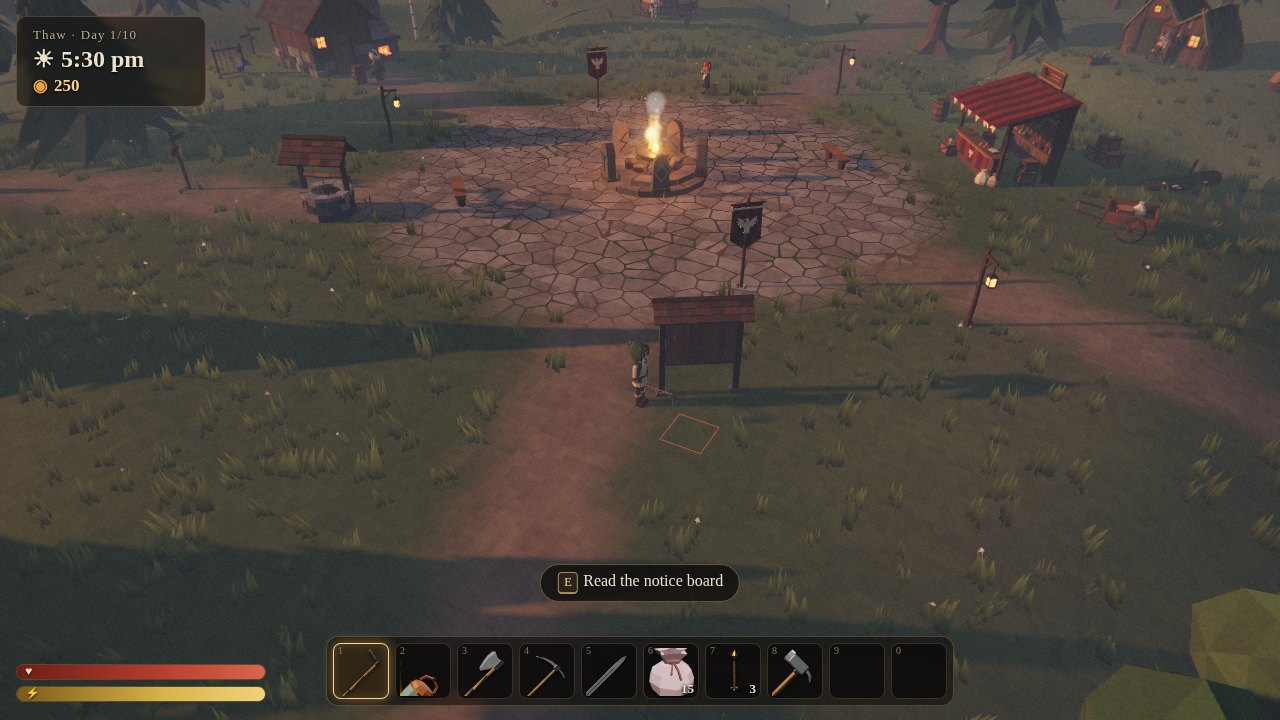
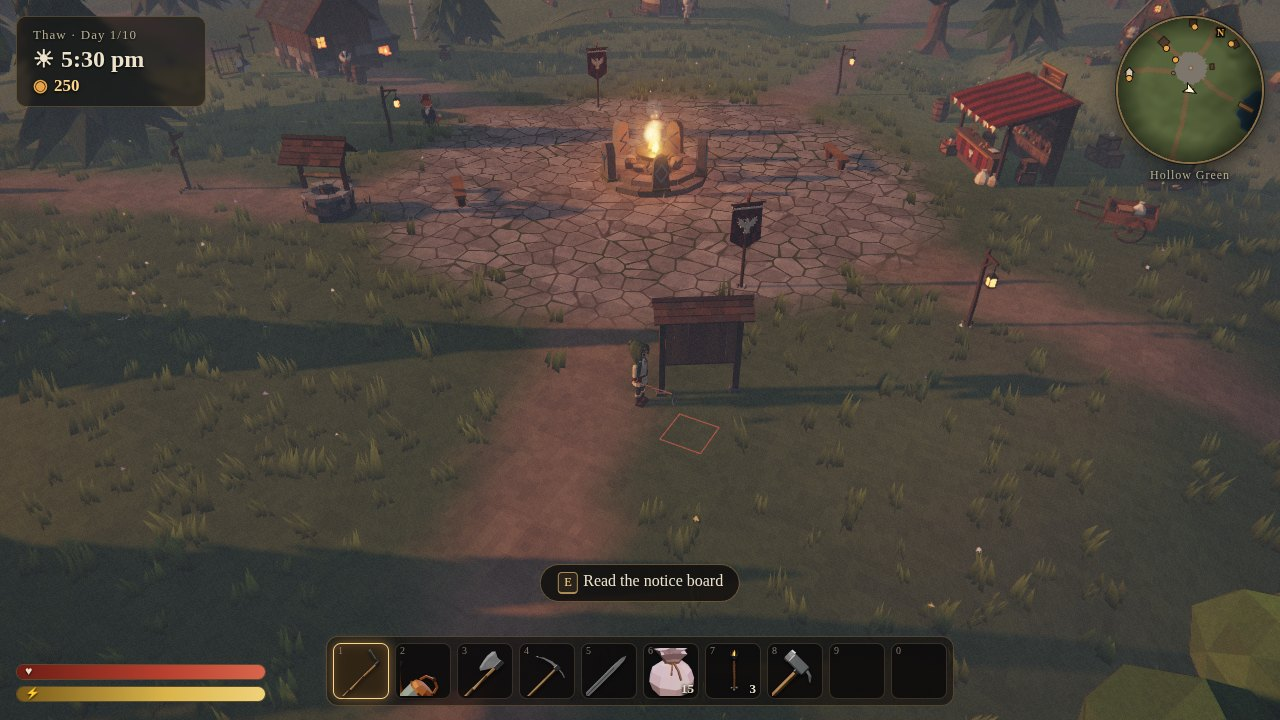
Fix the stuck night, brighten nights, and make bugs and tools findable
- End of day: the summary panel opened underneath the black fade, so
  sleeping or collapsing at 2 am left a black screen and the next day
  never began. Panels now sit above the fade. The playtest checks that
  the summary is on top and clicks "Wake up" for both sleeping and the
  2 am collapse.
- Nights are brighter but still moody: the moon rises at dusk, climbs
  faster and shines brighter, the sun and moon hand over by brightness
  (no dark gap at 20:00), night ambient and fog are a lighter moonlit
  blue, moon shadows are softer, and the belt lantern reaches further.
  Open fields at night go from about 34/255 to 48/255 average
  brightness, the village from 49 to 65.
- Bugs: 50% bigger, with a golden twinkle that shows through leaves, and
  dragonflies, lanternflies and fireflies now also appear in spring.
- Fishing rod and bug net: the journal says where Fennick and Mothwyn
  are, a pointer toast follows Corvin's introduction, and the full map
  labels villagers by name. Long toasts stay up long enough to read.
- Playtest waits for dialogue choices, since text now types at the
  speaker's pace.

Claude-Session: https://claude.ai/code/session_01AgQuKrfUSXYuM6H19NAvW9

diff --git a/gloam/src/engine/atmosphere.js b/gloam/src/engine/atmosphere.js
@@ -4,17 +4,17 @@ import { clamp, lerp, smoothstep } from './noise.js';
 
 // Key frames around the clock (colours authored in sRGB hex).
 const KEYS = [
-  { h: 0.0, zen: '#03050b', hor: '#0b111c', fog: '#0a0f17', sun: '#ff9a6a', sunI: 0.0, hemS: '#22304e', hemG: '#08090c', hemI: 0.7, exp: 1.35, cl: '#1b2233', cd: '#07090e' },
-  { h: 4.6, zen: '#04060d', hor: '#121827', fog: '#0e131c', sun: '#ff9a6a', sunI: 0.0, hemS: '#22304e', hemG: '#08090c', hemI: 0.7, exp: 1.35, cl: '#1e2536', cd: '#080a10' },
+  { h: 0.0, zen: '#04070f', hor: '#101827', fog: '#141c2a', sun: '#ff9a6a', sunI: 0.0, hemS: '#30426a', hemG: '#10131a', hemI: 0.95, exp: 1.5, cl: '#1f283b', cd: '#090c12' },
+  { h: 4.6, zen: '#050810', hor: '#151c2c', fog: '#161e2c', sun: '#ff9a6a', sunI: 0.0, hemS: '#30426a', hemG: '#10131a', hemI: 0.95, exp: 1.5, cl: '#222a3c', cd: '#0a0c12' },
   { h: 5.6, zen: '#141a2a', hor: '#4a3a44', fog: '#262a36', sun: '#ff9a6a', sunI: 0.15, hemS: '#3a4260', hemG: '#15141a', hemI: 0.65, exp: 1.25, cl: '#6a5058', cd: '#1c1a24' },
   { h: 6.6, zen: '#2d3d58', hor: '#b8785a', fog: '#5c6270', sun: '#ffb07a', sunI: 1.15, hemS: '#7888a4', hemG: '#3a3230', hemI: 0.85, exp: 1.1, cl: '#e0a080', cd: '#4a4250' },
   { h: 8.0, zen: '#3f5878', hor: '#9aa8b4', fog: '#76838f', sun: '#ffe0b8', sunI: 2.1, hemS: '#a6b6cc', hemG: '#4b4638', hemI: 1.0, exp: 1.0, cl: '#c8ccd2', cd: '#5a6068' },
   { h: 12.5, zen: '#48648a', hor: '#a4b0ba', fog: '#7f8b95', sun: '#fff0dc', sunI: 2.6, hemS: '#b0bfd2', hemG: '#524c3c', hemI: 1.1, exp: 1.0, cl: '#d4d8dc', cd: '#646a72' },
   { h: 16.0, zen: '#45597a', hor: '#b0a890', fog: '#7a8288', sun: '#ffd6a0', sunI: 2.25, hemS: '#aab4c4', hemG: '#524a38', hemI: 1.05, exp: 1.0, cl: '#d8ccb4', cd: '#625c5a' },
   { h: 18.3, zen: '#3a4766', hor: '#d08a52', fog: '#686872', sun: '#ff9a52', sunI: 1.45, hemS: '#8c8ca4', hemG: '#43362c', hemI: 0.9, exp: 1.05, cl: '#f0a870', cd: '#584650' },
-  { h: 19.4, zen: '#252d48', hor: '#8a4a4c', fog: '#383645', sun: '#ff6a3a', sunI: 0.45, hemS: '#4c4c6c', hemG: '#1e1a1c', hemI: 0.72, exp: 1.15, cl: '#b0605a', cd: '#2e2634' },
-  { h: 20.3, zen: '#111829', hor: '#2c3450', fog: '#1c2232', sun: '#ff6a3a', sunI: 0.0, hemS: '#2a3452', hemG: '#0c0c10', hemI: 0.6, exp: 1.3, cl: '#2c3246', cd: '#0e1018' },
-  { h: 21.6, zen: '#03050b', hor: '#0b111c', fog: '#0a0f17', sun: '#ff9a6a', sunI: 0.0, hemS: '#22304e', hemG: '#08090c', hemI: 0.7, exp: 1.35, cl: '#1b2233', cd: '#07090e' },
+  { h: 19.4, zen: '#252d48', hor: '#8a4a4c', fog: '#383645', sun: '#ff6a3a', sunI: 0.45, hemS: '#4c4c6c', hemG: '#1e1a1c', hemI: 0.9, exp: 1.25, cl: '#b0605a', cd: '#2e2634' },
+  { h: 20.3, zen: '#121a2c', hor: '#2e3654', fog: '#1e2638', sun: '#ff6a3a', sunI: 0.0, hemS: '#33426a', hemG: '#10121a', hemI: 1.05, exp: 1.5, cl: '#2e3448', cd: '#0f1119' },
+  { h: 21.6, zen: '#04070f', hor: '#101827', fog: '#141c2a', sun: '#ff9a6a', sunI: 0.0, hemS: '#30426a', hemG: '#10131a', hemI: 0.95, exp: 1.5, cl: '#1f283b', cd: '#090c12' },
 ];
 const COLOR_KEYS = ['zen', 'hor', 'fog', 'sun', 'hemS', 'hemG', 'cl', 'cd'];
 const NUM_KEYS = ['sunI', 'hemI', 'exp'];
@@ -82,9 +82,10 @@ export class Atmosphere {
     const az = Math.PI * dayFrac;
     const el = Math.sin(Math.PI * clamp(dayFrac, -0.3, 1.3)) * maxElev;
     s.sunDir.set(Math.cos(az) * Math.cos(el), Math.sin(el), Math.sin(az) * Math.cos(el)).normalize();
-    const nightFrac = (((hour - 20) % 24) + 24) % 24 / 10;
+    const nightFrac = (((hour - 19.2) % 24) + 24) % 24 / 10.8;
     const maz = Math.PI * nightFrac + 0.4;
-    const mel = Math.sin(Math.PI * clamp(nightFrac, -0.2, 1.2)) * THREE.MathUtils.degToRad(48);
+    const ms = Math.sin(Math.PI * clamp(nightFrac, -0.2, 1.2));
+    const mel = Math.sign(ms) * Math.pow(Math.abs(ms), 0.6) * THREE.MathUtils.degToRad(48); // climbs quickly after rising
     s.moonDir.set(Math.cos(maz) * Math.cos(mel), Math.sin(mel), Math.sin(maz) * Math.cos(mel) - 0.25).normalize();
 
     // weather greying of the sky
@@ -104,16 +105,19 @@ export class Atmosphere {
     s.moonVis = smoothstep(-0.05, 0.1, s.moonDir.y) * clamp(1.2 - W.cloud * 0.8, 0.15, 1) * nightness;
     s.aurora = season === 'winter' || dawn ? nightness * clamp(1.1 - W.cloud, 0, 1) * (season === 'winter' ? 1 : 0.5) : 0;
 
-    // directional light: sun by day, moon by night (cross-fade at the horizon)
+    // directional light: the sun or the moon, whichever is brighter (the moon
+    // rises at dusk, so there is no dark gap as the sun goes down)
     const sunUp = smoothstep(-0.02, 0.1, s.sunDir.y);
-    if (sunUp > 0.001) {
+    const sunI = k.sunI * 1.5 * W.sun * sunUp * (dawn ? 1.25 : 1);
+    const moonI = Math.max(0.3, smoothstep(0.0, 0.2, s.moonDir.y)) * clamp(1.1 - W.cloud * 0.6, 0.3, 1) * (1 - sunUp);
+    if (sunI >= moonI) {
       s.lightDir.copy(s.sunDir);
       s.lightColor.copy(k.sun);
-      s.lightIntensity = k.sunI * 1.5 * W.sun * sunUp * (dawn ? 1.25 : 1);
+      s.lightIntensity = sunI;
     } else {
       s.lightDir.copy(s.moonDir.y > 0.05 ? s.moonDir : tmpA.set(0.3, 0.8, 0.2));
       s.lightColor.set('#8fa6d6');
-      s.lightIntensity = 0.6 * smoothstep(0.0, 0.2, s.moonDir.y) * clamp(1.1 - W.cloud * 0.6, 0.3, 1);
+      s.lightIntensity = moonI;
     }
     if (s.lightDir.y < 0.08) s.lightDir.y = 0.08;
     s.lightDir.normalize();
@@ -123,7 +127,7 @@ export class Atmosphere {
     s.hemiIntensity = k.hemI * 1.45 * lerp(1, W.dark, 0.5) * (weather === 'snow' ? 1.2 : 1);
 
     // fog
-    s.fogColor.copy(k.fog).lerp(grey, g * 0.3).multiplyScalar(lerp(1, W.dark, 0.5) * 0.42);
+    s.fogColor.copy(k.fog).lerp(grey, g * 0.3).multiplyScalar(lerp(1, W.dark, 0.5) * lerp(0.42, 0.62, nightness)); // moonlit mist, not murk
     if (weather === 'snow') s.fogColor.lerp(tmpA.set(0.55, 0.6, 0.68), 0.35 * (1 - nightness * 0.8));
     s.fogSunColor.copy(k.sun).multiplyScalar(0.22 * s.sunVis * Math.min(1, k.sunI));
     const morningMist = smoothstep(5, 6.5, hour) * (1 - smoothstep(7.5, 10, hour));
@@ -137,7 +141,7 @@ export class Atmosphere {
     // grading
     s.exposure = k.exp * 1.5 * (weather === 'storm' ? 1.1 : 1);
     const golden = smoothstep(17, 18.5, hour) * (1 - smoothstep(19.2, 20, hour)) + smoothstep(5.8, 6.6, hour) * (1 - smoothstep(7, 8.5, hour));
-    s.lift.set(lerp(0.012, 0.004, nightness), lerp(0.014, 0.012, nightness), lerp(0.022, 0.04, nightness));
+    s.lift.set(lerp(0.012, 0.008, nightness), lerp(0.014, 0.016, nightness), lerp(0.022, 0.046, nightness));
     s.gain.set(lerp(1.02, 0.86, nightness) + golden * 0.06, lerp(1.0, 0.94, nightness), lerp(0.96, 1.12, nightness) - golden * 0.05);
     s.gamma.set(1, 1, 1);
     s.saturation = lerp(0.9, 0.72, nightness) * (weather === 'fog' ? 0.85 : 1) * (dawn ? 1.08 : 1);

diff --git a/gloam/src/game/bugs.js b/gloam/src/game/bugs.js
@@ -13,6 +13,7 @@ export class Bugs {
     this.group = new THREE.Group();
     game.engine.scene.add(this.group);
     this.scale = new Map();
+    this.glintTex = makeGlintTexture();
   }
 
   eligible() {
@@ -92,7 +93,7 @@ export class Bugs {
   modelScale(id) {
     if (this.scale.has(id)) return this.scale.get(id);
     const b = this.game.lib.getBounds(id).getSize(new THREE.Vector3());
-    const k = 0.2 / Math.max(0.03, b.x, b.y, b.z);
+    const k = 0.3 / Math.max(0.03, b.x, b.y, b.z);
     this.scale.set(id, k);
     return k;
   }
@@ -107,7 +108,14 @@ export class Bugs {
     obj.scale.setScalar(this.modelScale(id));
     obj.traverse((o) => { if (o.isMesh) o.castShadow = false; });
     this.group.add(obj);
-    const b = { id, B: BUGS[id], obj, anchor: new THREE.Vector3(loc.x, loc.y, loc.z), pos: new THREE.Vector3(loc.x, loc.y, loc.z), r: loc.r, t: Math.random() * 10, fleeing: false, face: loc.face, ground: loc.ground, dartT: 0, dartTo: null };
+    // a soft twinkle so bugs can be spotted from the camera
+    const glint = new THREE.Sprite(new THREE.SpriteMaterial({
+      map: this.glintTex, color: 0xffffff, transparent: true, opacity: 0, depthWrite: false,
+      depthTest: false, // shines through the leaves over a trunk beetle
+    }));
+    glint.renderOrder = 2;
+    this.group.add(glint);
+    const b = { id, B: BUGS[id], obj, glint, anchor: new THREE.Vector3(loc.x, loc.y, loc.z), pos: new THREE.Vector3(loc.x, loc.y, loc.z), r: loc.r, t: Math.random() * 10, fleeing: false, face: loc.face, ground: loc.ground, dartT: 0, dartTo: null };
     this.list.push(b);
   }
 
@@ -147,6 +155,7 @@ export class Bugs {
 
   remove(b) {
     b.obj.removeFromParent();
+    if (b.glint) { b.glint.removeFromParent(); b.glint.material.dispose(); }
     const i = this.list.indexOf(b);
     if (i >= 0) this.list.splice(i, 1);
   }
@@ -196,8 +205,42 @@ export class Bugs {
         }
       }
       b.obj.position.copy(b.pos);
+      if (b.glint) {
+        const pulse = 0.5 + 0.5 * Math.sin(b.t * 2.6 + i * 1.7);
+        // a little toward the camera so a tree trunk doesn't hide it
+        const cam = g.engine.camera.position;
+        const d = Math.max(0.001, cam.distanceTo(b.pos));
+        b.glint.position.set(b.pos.x + (cam.x - b.pos.x) / d * 0.3, b.pos.y + 0.1 + (cam.y - b.pos.y) / d * 0.3, b.pos.z + (cam.z - b.pos.z) / d * 0.3);
+        b.glint.scale.setScalar(0.55 + pulse * 0.35);
+        b.glint.material.opacity = b.fleeing ? Math.max(0, 0.8 - b.fleeT) : 0.35 + 0.6 * pulse * pulse;
+      }
       if (b.face != null && b.B.move === 'crawl') b.obj.rotation.set(0, b.face, 0);
       else b.obj.rotation.set(Math.sin(b.t * 20) * 0.15, b.t * 1.5 + i, Math.sin(b.t * 17) * 0.2);
     }
   }
+}
+
+// A small four-point sparkle with a warm halo.
+function makeGlintTexture() {
+  const S = 64;
+  const c = document.createElement('canvas');
+  c.width = c.height = S;
+  const x = c.getContext('2d');
+  const g = x.createRadialGradient(S / 2, S / 2, 0, S / 2, S / 2, S / 2);
+  g.addColorStop(0, 'rgba(255, 255, 240, 1)');
+  g.addColorStop(0.14, 'rgba(255, 226, 140, 0.9)');
+  g.addColorStop(0.4, 'rgba(255, 196, 90, 0.28)');
+  g.addColorStop(1, 'rgba(255, 180, 70, 0)');
+  x.fillStyle = g;
+  x.fillRect(0, 0, S, S);
+  // four-point star, tapering to the tips
+  x.fillStyle = 'rgba(255, 252, 230, 0.95)';
+  for (const r of [0, Math.PI / 2]) {
+    x.save(); x.translate(S / 2, S / 2); x.rotate(r);
+    x.beginPath(); x.moveTo(-S * 0.46, 0); x.lineTo(0, -2.2); x.lineTo(S * 0.46, 0); x.lineTo(0, 2.2); x.closePath(); x.fill();
+    x.restore();
+  }
+  const tex = new THREE.CanvasTexture(c);
+  tex.colorSpace = THREE.SRGBColorSpace;
+  return tex;
 }

diff --git a/gloam/src/ui/panels.js b/gloam/src/ui/panels.js
@@ -490,6 +490,8 @@ export function goals(g) {
   const met = Object.values(st.npcs).filter((n) => n.met).length;
   const out = [];
   out.push({ t: 'Speak with Corvin the raven', done: st.npcs.corvin.met });
+  out.push({ t: 'Get a fishing rod from Fennick the fox (the south dock in the morning, the beach by day, the Hearth after 5 pm)', done: st.npcs.fennick.met });
+  out.push({ t: 'Get a bug net from Mothwyn the moth (Birchmeadow in the morning, her house in the village after noon)', done: st.npcs.mothwyn.met });
   out.push({ t: 'Till soil in your field and plant seeds', done: Object.values(st.farm).some((t) => t.crop) || st.stats.crops > 0 });
   out.push({ t: 'Ship something in the tithe crate', done: st.stats.earned > 0 });
   out.push({ t: `Meet the villagers (${met}/6)`, done: met >= 6 });
@@ -589,10 +591,16 @@ function mapPanel(ui, g) {
     c.beginPath(); c.moveTo(hx, hy - 7); c.lineTo(hx + 6, hy - 1); c.lineTo(hx + 4.5, hy - 1); c.lineTo(hx + 4.5, hy + 6);
     c.lineTo(hx - 4.5, hy + 6); c.lineTo(hx - 4.5, hy - 1); c.lineTo(hx - 6, hy - 1); c.closePath();
     c.fill(); c.lineWidth = 1.2; c.strokeStyle = 'rgba(12,8,4,0.9)'; c.stroke();
+    c.font = '11px Alegreya, Georgia, serif';
+    c.textAlign = 'left';
     for (const n of g.npcs.list) {
       if (!n.visible) continue;
       const [x, y] = toPx(n.pos.x, n.pos.z);
       dot(x, y, 3.5, '#e6a44a');
+      c.fillStyle = 'rgba(10,10,10,0.7)';
+      c.fillText(n.cfg.name, x + 6, y + 4);
+      c.fillStyle = '#f3c77e';
+      c.fillText(n.cfg.name, x + 5, y + 3);
     }
     for (const e of g.enemies.list) {
       if (!e.alive) continue;
@@ -611,7 +619,7 @@ function mapPanel(ui, g) {
   };
   draw();
   const iv = setInterval(draw, 500);
-  f.body.appendChild(h('div', 'muted small', 'The arrow is you and the house is home. Amber dots are villagers; red ones are the Gloam.'));
+  f.body.appendChild(h('div', 'muted small', 'The arrow is you and the house is home. Amber dots are villagers (Fennick has a fishing rod for you, Mothwyn a bug net); red ones are the Gloam.'));
   return { name: 'map', el: f.el, onClose: () => clearInterval(iv) };
 }
 
@@ -649,7 +657,7 @@ function helpPanel(ui) {
     <div><h3>Living here</h3>
       <p>Till your field with the hoe, plant seeds, water them each day (or let the rain). Crops only grow in their season.</p>
       <p>Drop goods in the <b>tithe crate</b> by your hut; they're sold overnight. Pay Corvin back at his stall.</p>
-      <p>Chop trees, break rocks, forage, fish (${fishHow}), and catch bugs with the net.</p>
+      <p>Chop trees, break rocks, forage, fish (${fishHow}), and catch bugs with the net. Bugs twinkle gold: on tree trunks and over water by day, around lights and in the fields at night. Fennick the fox has a spare rod and Mothwyn the moth makes nets.</p>
       <p>After dark the <b>Gloam</b> hunts. Stay near fire — torches, braziers and the Great Hearth keep them away. Standing by a fire makes you <b>Rested</b>.</p>
       <p>Sleep at your hut door before 2 am. Your game saves each morning.</p>
     </div>

diff --git a/gloam/src/data/items.js b/gloam/src/data/items.js
@@ -69,11 +69,11 @@ for (const [id, f] of Object.entries(FISH)) def(id, f.name, 'fish', f.price, { m
 export const BUGS = {
   bug_moth: { name: 'Ash Moth', hours: [19, 4], seasons: ['spring', 'summer', 'autumn'], where: 'lights', price: 22, rarity: 10, move: 'flutter' },
   bug_deathshead: { name: "Death's-head Moth", hours: [21, 3], seasons: ['autumn'], where: 'lights', price: 150, rarity: 2, move: 'flutter' },
-  bug_firefly: { name: 'Gloam Firefly', hours: [20, 2], seasons: ['summer'], where: 'meadow', price: 45, rarity: 8, move: 'glow' },
+  bug_firefly: { name: 'Gloam Firefly', hours: [20, 2], seasons: ['spring', 'summer'], where: 'meadow', price: 45, rarity: 8, move: 'glow' },
   bug_beetle: { name: 'Bark Beetle', hours: [8, 17], seasons: ['spring', 'summer', 'autumn'], where: 'trees', price: 26, rarity: 9, move: 'crawl' },
   bug_grave_beetle: { name: 'Grave Beetle', hours: [19, 5], seasons: ['spring', 'summer', 'autumn', 'winter'], where: 'graveyard', price: 85, rarity: 4, move: 'crawl' },
-  bug_dragonfly: { name: 'Fen Dragonfly', hours: [9, 17], seasons: ['summer'], where: 'water', price: 38, rarity: 8, move: 'dart' },
-  bug_lanternfly: { name: 'Lanternfly', hours: [17, 21], seasons: ['summer', 'autumn'], where: 'forest', price: 64, rarity: 5, move: 'flutter' },
+  bug_dragonfly: { name: 'Fen Dragonfly', hours: [9, 17], seasons: ['spring', 'summer'], where: 'water', price: 38, rarity: 8, move: 'dart' },
+  bug_lanternfly: { name: 'Lanternfly', hours: [17, 21], seasons: ['spring', 'summer', 'autumn'], where: 'forest', price: 64, rarity: 5, move: 'flutter' },
   bug_mistmoth: { name: 'Mist Moth', hours: [20, 5], seasons: ['autumn', 'winter'], where: 'mistwood', price: 125, rarity: 3, move: 'flutter', fogBonus: true },
 };
 for (const [id, b] of Object.entries(BUGS)) def(id, b.name, 'bug', b.price, { model: id });

diff --git a/gloam/src/game/game.js b/gloam/src/game/game.js
@@ -88,7 +88,7 @@ export class Game {
     this.lastMusic = null;
     this.prompt = null;
     // a small belt lantern so the night is playable (it does not ward off the Gloam)
-    this.playerLight = engine.lighting.add({ pos: this.player.pos, color: 0xffb870, intensity: 3.2, radius: 7, flicker: 0.25, halo: 0.2, nightOnly: true, safe: 0 });
+    this.playerLight = engine.lighting.add({ pos: this.player.pos, color: 0xffb870, intensity: 4, radius: 9, flicker: 0.25, halo: 0.2, nightOnly: true, safe: 0 });
   }
 
   get season() { return seasonOf(this.state); }
@@ -128,7 +128,7 @@ export class Game {
     this.engine.focus.copy(this.player.pos);
     this.engine.fadeTarget = this.player.pos;
     this.playerLight.pos.set(this.player.pos.x, this.player.pos.y + 1.4, this.player.pos.z);
-    this.playerLight.intensity = 3.2 * Math.min(1, this.darkness * 1.4);
+    this.playerLight.intensity = 4 * Math.min(1, this.darkness * 1.4);
     this.camera.handleInput(this.input, dt);
     this.camera.update(this.player.pos, dt);
     this.grass.update(this.player.pos, this.player.pos);

diff --git a/gloam/styles.css b/gloam/styles.css
@@ -177,7 +177,8 @@ button { font-family: inherit; }
 .choice.sel::before { content: '▸'; position: absolute; left: 12px; color: var(--amber-hi); }
 
 /* ---------- modal panels ---------- */
-.modal-layer { position: absolute; inset: 0; display: none; align-items: center; justify-content: center; background: rgba(4, 4, 6, 0.45); pointer-events: auto; }
+/* above the black fade (z 40) so the end-of-day summary shows over it */
+.modal-layer { position: absolute; inset: 0; z-index: 42; display: none; align-items: center; justify-content: center; background: rgba(4, 4, 6, 0.45); pointer-events: auto; }
 .modal-layer.show { display: flex; }
 .panel {
   width: min(880px, calc(100vw - 32px)); max-height: calc(100vh - 32px); overflow: auto;

diff --git a/gloam/src/ui/ui.js b/gloam/src/ui/ui.js
@@ -223,8 +223,10 @@ export class UI {
     const el = h('div', `toast ${kind}`, msg);
     box.appendChild(el);
     while (box.children.length > 6) box.firstChild.remove();
-    setTimeout(() => el.classList.add('out'), kind === 'quest' || kind === 'new' ? 5200 : 3200);
-    setTimeout(() => el.remove(), kind === 'quest' || kind === 'new' ? 6000 : 4000);
+    // long messages stay up long enough to read
+    const life = Math.max(kind === 'quest' || kind === 'new' ? 5200 : 3200, String(msg).replace(/<[^>]*>/g, '').length * 55);
+    setTimeout(() => el.classList.add('out'), life);
+    setTimeout(() => el.remove(), life + 800);
   }
 
   pickup(id, n, isNew = false) {

diff --git a/gloam/src/data/dialogue.js b/gloam/src/data/dialogue.js
@@ -327,7 +327,7 @@ export const DIALOGUE = {
       summer: [
         "Brightwane. The worst season. Bright, loud, and positively writhing with dragonflies.",
         "Summer nights are so brief. I barely have time to brood before the sky turns pale again. Hoo. Unfair.",
-        "The Fen Dragonfly is abroad in summer. Four wings. Who needs four wings? It is, hoo, showing off.",
+        "The Fen Dragonfly hums over the water from Thaw into Brightwane. Four wings. Who needs four wings? It is, hoo, showing off.",
       ],
       autumn: [
         "Rotfall. Now THIS is a season. Everything decays with such dignity.",

diff --git a/gloam/src/game/npcs.js b/gloam/src/game/npcs.js
@@ -292,6 +292,7 @@ export class NPCs {
       await say('role.debt_explain');
       await say('role.tithe_crate');
       g.toast(`Goal: pay Corvin back ${DEBT_START.toLocaleString()} coins.`, 'quest');
+      g.toast('Fennick the fox has a spare fishing rod, and Mothwyn the moth makes bug nets. Your journal (J) and map (M) show where to find them.', 'quest');
     } else if (n.id === 'morrow') {
       await say('role.barrow_intro');
     }

diff --git a/gloam/src/engine/lighting.js b/gloam/src/engine/lighting.js
@@ -60,6 +60,7 @@ export class Lighting {
     this.hemi.intensity = atmo.hemiIntensity;
     this.sun.color.copy(atmo.lightColor);
     this.sun.intensity = atmo.lightIntensity;
+    this.sun.shadow.intensity = 1 - 0.5 * atmo.darkness; // moonlight casts soft shadows
 
     // place the shadow camera around the focus, snapped to shadow texels
     const dir = atmo.lightDir;

diff --git a/gloam/README.md b/gloam/README.md
@@ -85,7 +85,7 @@ and menu. The hotbar slots are tappable, and so is the minimap.
 - Dialogue: 740+ pages of it.
 - A 3,000-coin debt to Corvin the raven, and a longhouse upgrade once it's paid.
 - Morrow the owl's Barrow museum, which collects fish, bugs and relics. He hates bugs.
-- Bug-catching with a net, fishing, digging up relics, and foraging.
+- Bug-catching with a net (bugs twinkle gold so you can spot them), fishing, digging up relics, and foraging. Fennick gives you a rod and Mothwyn a net when you first meet them.
 
 **From Valheim**
 - Nordic art direction: volumetric height fog, drifting ground mist, torches that glow in the fog, and bloom.
